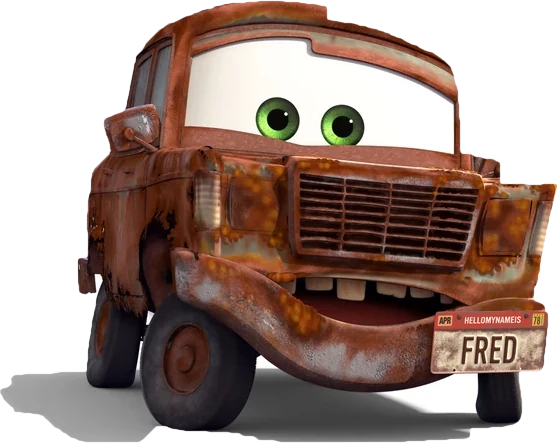
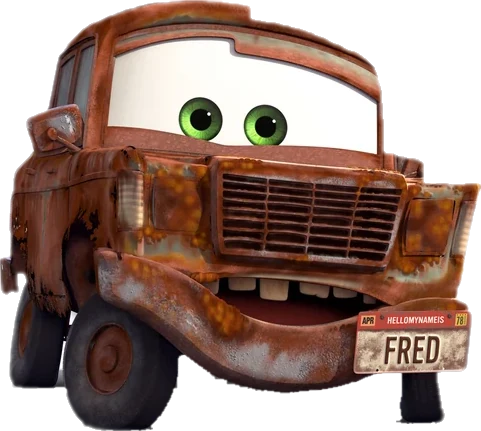
Gỡ bóng mờ dưới gầm Fred và Tractor
Claude-Session: https://claude.ai/code/session_01MAp9h25oyVUjyk4HgxeQqK

diff --git a/index.html b/index.html
@@ -1500,8 +1500,8 @@ var CARS={
  red:{name:'Red',kind:'race',color:'#888888',iris:'#2B6BE0',cvi:'đỏ',cen:'red',vi:'xe cứu hỏa hiền lành',en:'gentle fire truck',honk:'Ò e ò e!',special:true,img:'img/car-red.webp',iw:646,ih:521},
  mack:{name:'Mack',kind:'race',color:'#888888',iris:'#2B6BE0',cvi:'đỏ',cen:'red',vi:'xe đầu kéo lớn',en:'big truck',honk:'Bóp bóp!',special:true,img:'img/car-mack.webp',iw:644,ih:421},
  king:{name:'The King',kind:'race',color:'#888888',iris:'#2B6BE0',cvi:'xanh dương',cen:'blue',vi:'xe đua số 43',en:'race car number 43',honk:'Vù vù!',special:true,img:'img/car-king.webp',iw:720,ih:382},
- fred:{name:'Fred',kind:'race',color:'#888888',iris:'#2B6BE0',cvi:'nâu gỉ',cen:'rusty brown',vi:'xe cũ vui tính',en:'old funny car',honk:'Lạch cạch!',special:true,img:'img/car-fred.webp',iw:558,ih:443},
- tractor:{name:'Tractor',kind:'race',color:'#888888',iris:'#2B6BE0',cvi:'hồng đất',cen:'dusty pink',vi:'máy cày',en:'tractor',honk:'Ò ò!',special:true,img:'img/car-tractor.webp',iw:523,ih:480},
+ fred:{name:'Fred',kind:'race',color:'#888888',iris:'#2B6BE0',cvi:'nâu gỉ',cen:'rusty brown',vi:'xe cũ vui tính',en:'old funny car',honk:'Lạch cạch!',special:true,img:'img/car-fred.webp',iw:481,ih:431},
+ tractor:{name:'Tractor',kind:'race',color:'#888888',iris:'#2B6BE0',cvi:'hồng đất',cen:'dusty pink',vi:'máy cày',en:'tractor',honk:'Ò ò!',special:true,img:'img/car-tractor.webp',iw:521,ih:479},
  bob:{name:'Bob Cutlass',kind:'race',color:'#888888',iris:'#2B6BE0',cvi:'xám',cen:'gray',vi:'xe bình luận viên',en:'announcer car',honk:'Bíp bíp!',special:true,img:'img/car-bob.webp',iw:720,ih:372},
  darrell:{name:'Darrell Cartrip',kind:'race',color:'#888888',iris:'#2B6BE0',cvi:'nhiều màu',cen:'colorful',vi:'xe bình luận viên vui vẻ',en:'fun announcer car',honk:'Bíp bíp!',special:true,img:'img/car-darrell.webp',iw:720,ih:348},
  dj:{name:'DJ',kind:'race',color:'#888888',iris:'#2B6BE0',cvi:'xanh dương',cen:'blue',vi:'xe phát nhạc',en:'music car',honk:'Bùm bùm!',special:true,img:'img/car-dj.webp',iw:720,ih:520},
